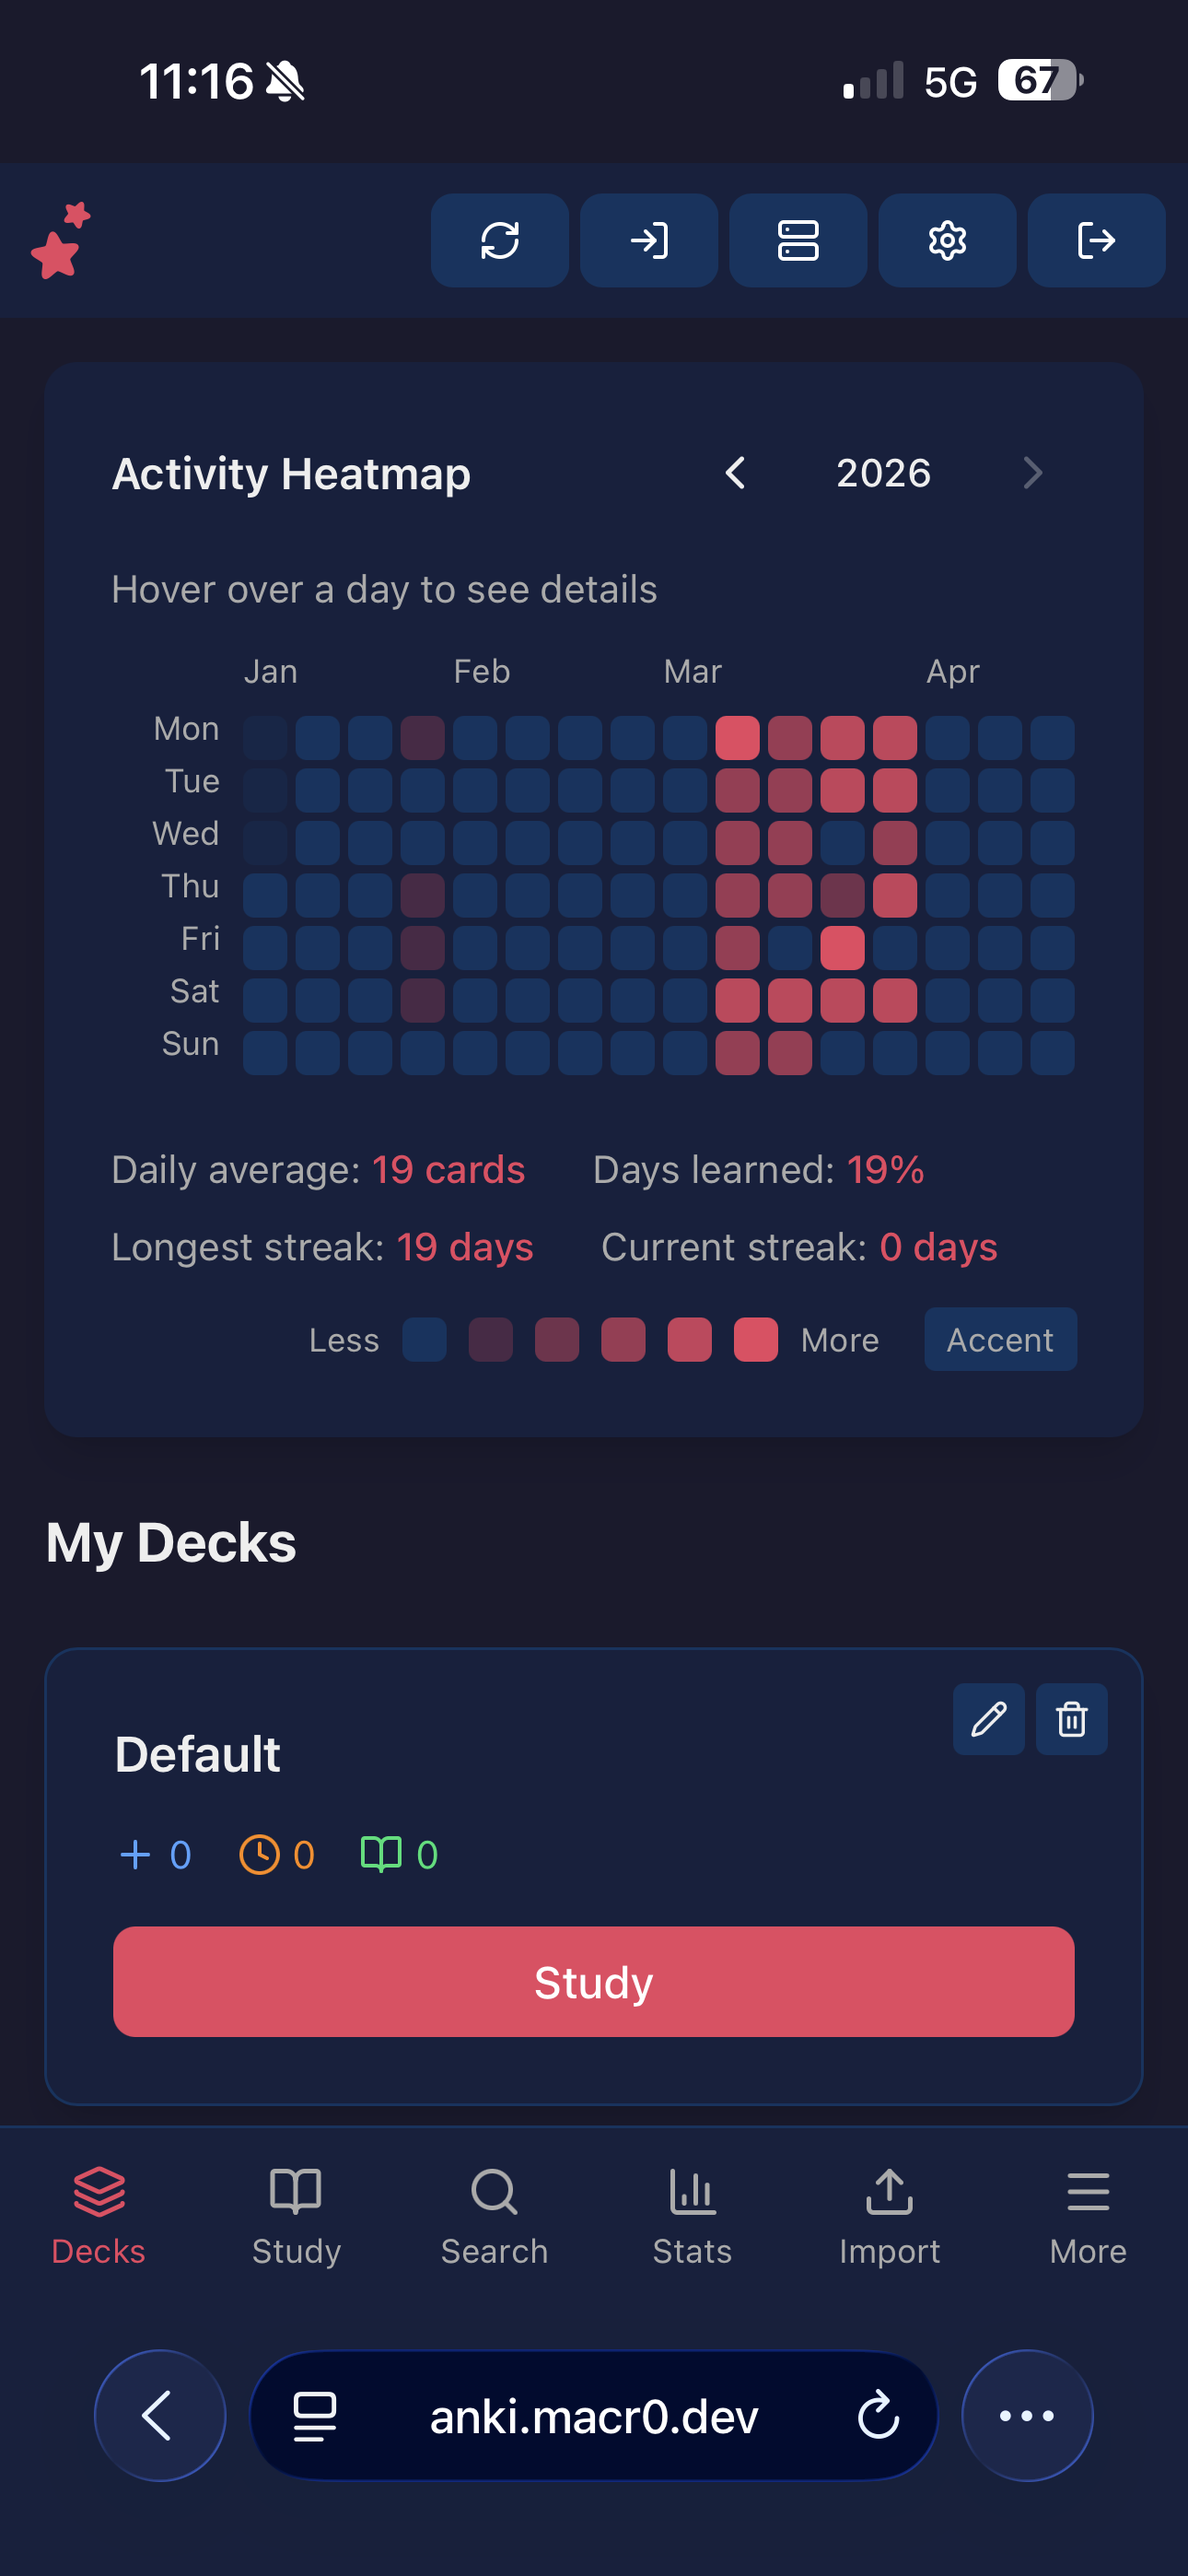
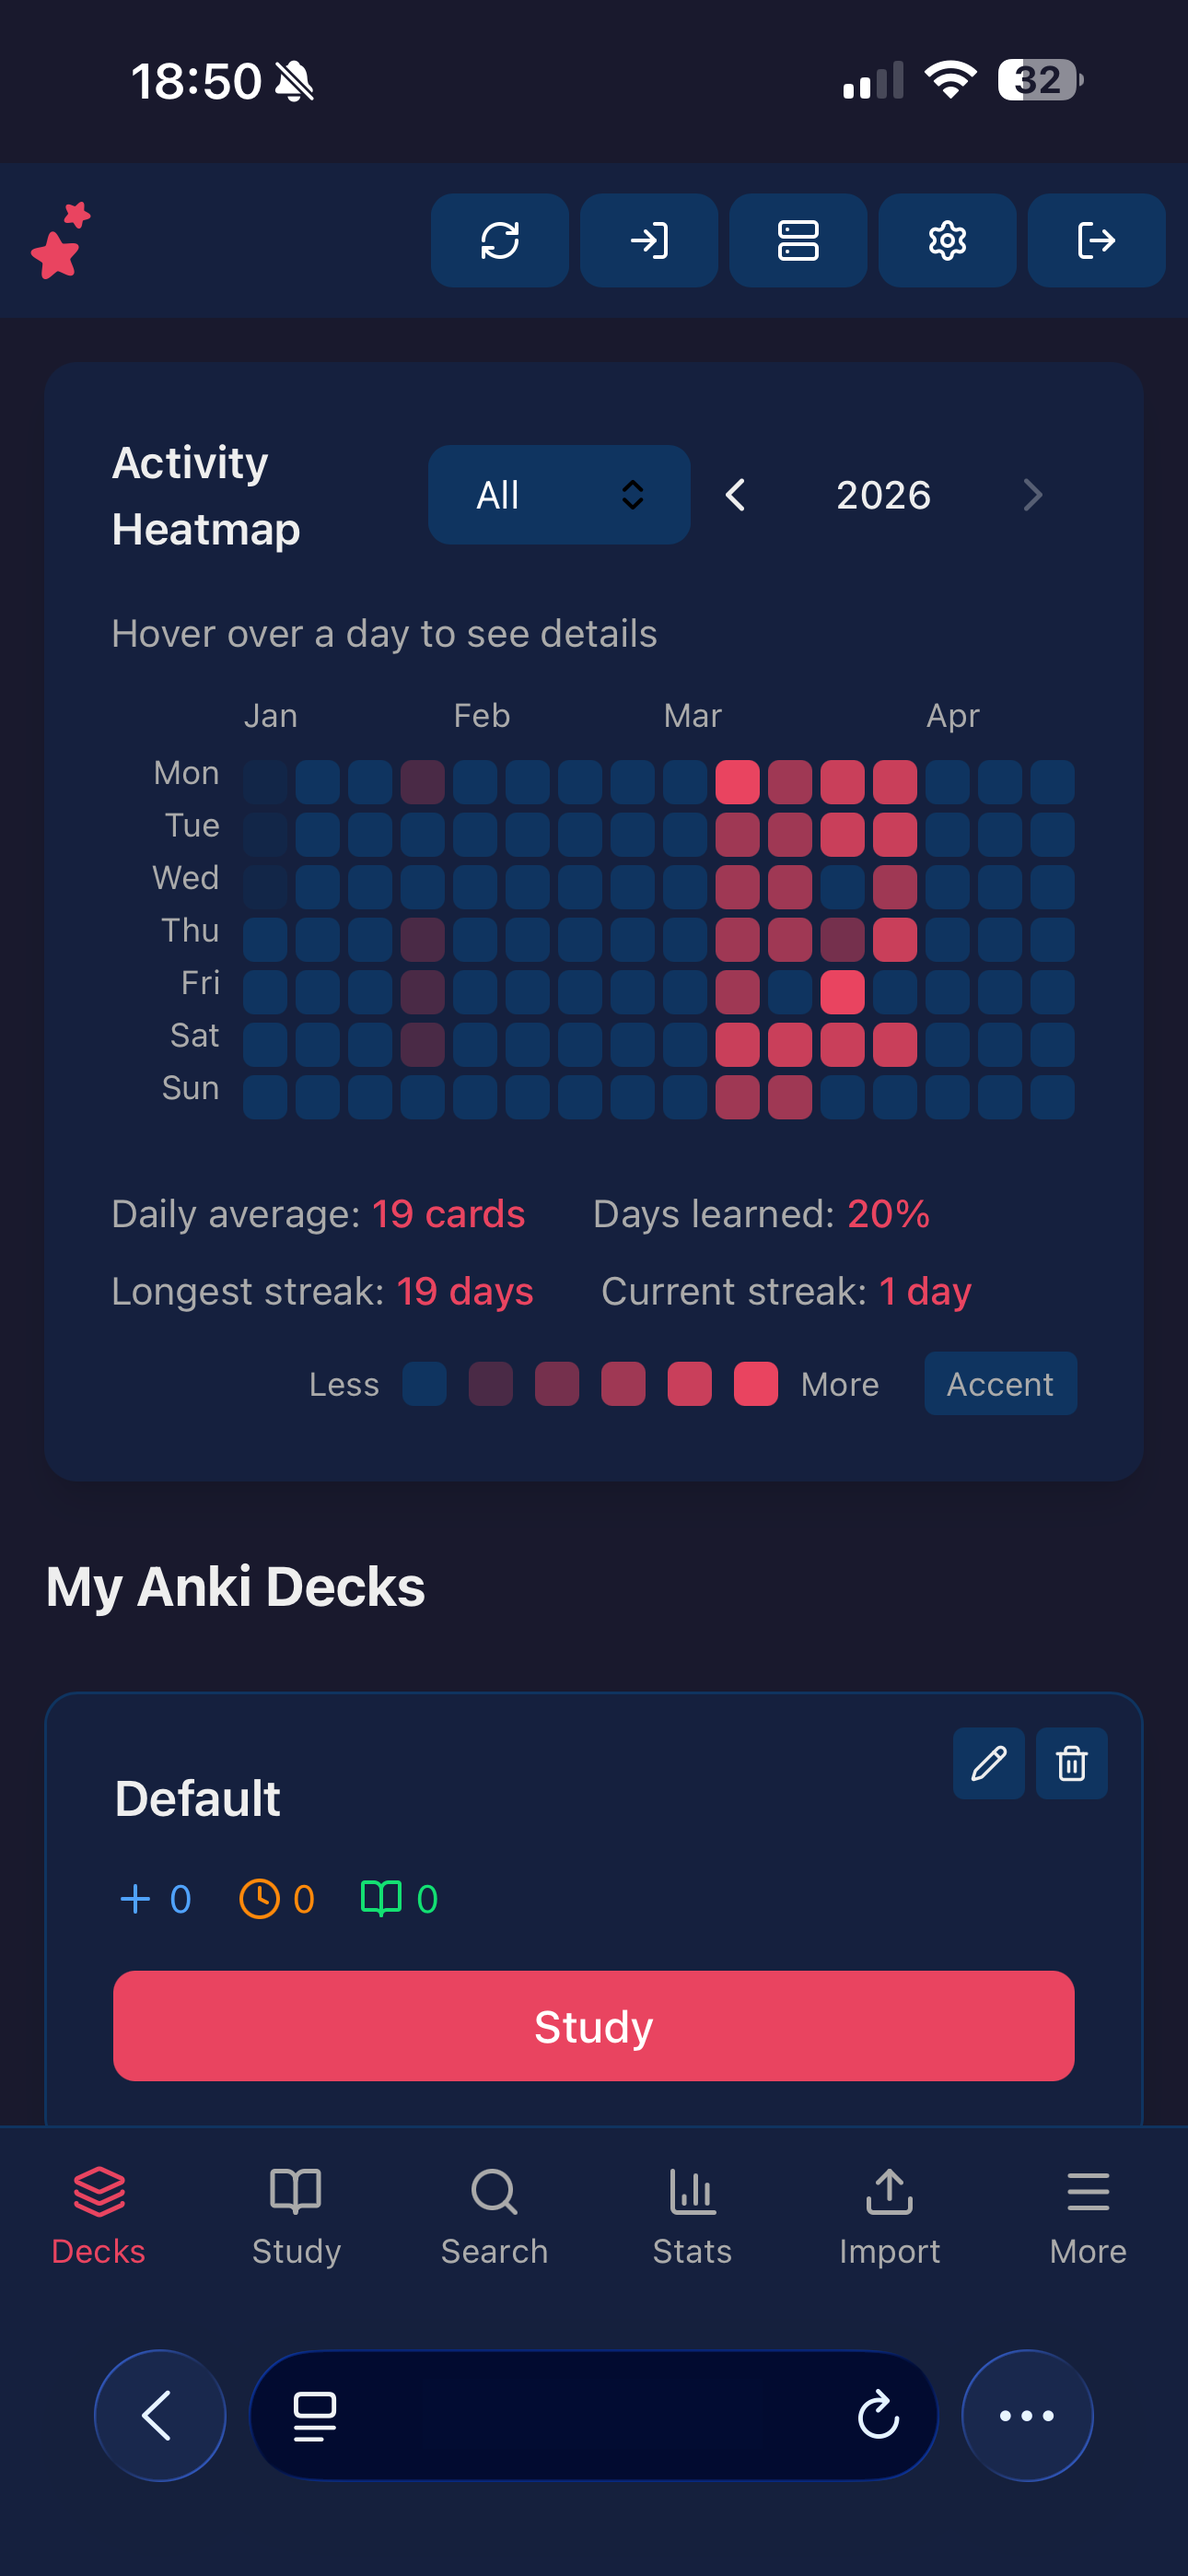
Fix README layout: full-width desktop, larger mobile screenshot

diff --git a/README.md b/README.md
@@ -11,17 +11,15 @@
 
 ---
 
-<div align="center">
-  <img src="docs/desktop.png" alt="AnkiBase desktop view" width="680">
-</div>
+<img src="docs/desktop.png" alt="AnkiBase desktop view" width="100%">
 
 ---
+
+## Features
 
 <table>
 <tr>
 <td valign="top">
-
-## Features
 
 - **Study** — review cards with ease ratings, undo, and progress tracking
 - **Decks** — browse your full deck hierarchy with new/learning/review counts
@@ -37,8 +35,8 @@
 - **In-app updates** — pull the latest version without touching the server
 
 </td>
-<td valign="top" align="center" width="260">
-  <img src="docs/mobile.png" alt="AnkiBase mobile view" width="220">
+<td align="center" valign="top" width="300">
+<img src="docs/mobile.png" alt="AnkiBase mobile view" width="280">
 </td>
 </tr>
 </table>
@@ -76,7 +74,7 @@ curl -fsSL https://raw.githubusercontent.com/Macro002/AnkiBase/main/install.sh |
 
 AI provider API keys (OpenAI, Anthropic, Gemini) can be added directly in the app under **Settings → API Keys** — no server access needed.
 
-Alternatively, you can set them in `/opt/ankibase/backend/.env` on the server:
+Alternatively, set them in `/opt/ankibase/backend/.env` on the server:
 
 ```env
 GEMINI_API_KEY=your_key_here
